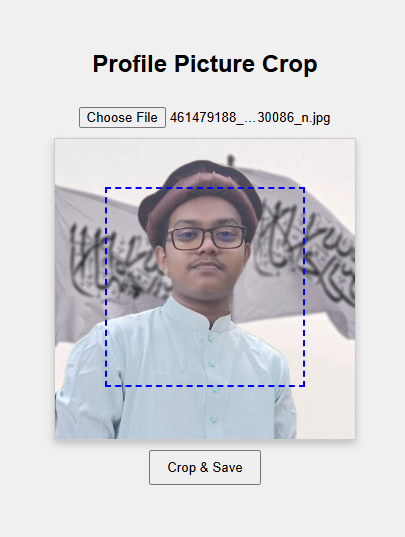
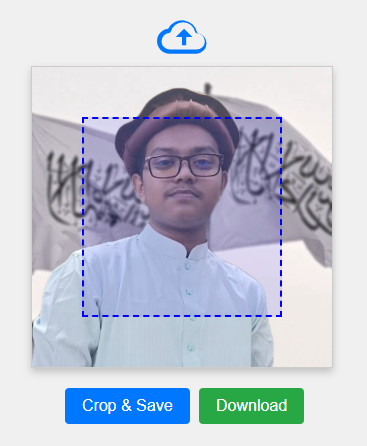
issue solved

diff --git a/script.js b/script.js
@@ -9,9 +9,24 @@ const downloadLink = document.getElementById("download-link");
 let img = new Image();
 let startX,
   startY,
-  offsetX,
-  offsetY,
+  offsetLeft,
+  offsetTop,
   isDragging = false;
+let drawScale = 1;
+let drawOffsetX = 0;
+let drawOffsetY = 0;
+
+// Set a default image if no file is uploaded
+const defaultImageSrc = "default-image.png"; // Change this to your actual default image path
+
+function loadDefaultImage() {
+  img.src = defaultImageSrc;
+  img.onload = function () {
+    drawImage();
+    canvasContainer.style.display = "block";
+    cropBtn.style.display = "none";
+  };
+}
 
 fileInput.addEventListener("change", (e) => {
   const file = e.target.files[0];
@@ -22,72 +37,68 @@ fileInput.addEventListener("change", (e) => {
       img.onload = function () {
         drawImage();
         canvasContainer.style.display = "block";
-        // Center the crop area on the image
-        cropArea.style.left = "50px"; // Center position (300 - 200) / 2
-        cropArea.style.top = "50px"; // Center position (300 - 200) / 2
+        cropBtn.style.display = "inline-block"; // Show crop button
+        cropArea.style.left = `${(canvas.width - cropArea.offsetWidth) / 2}px`;
+        cropArea.style.top = `${(canvas.height - cropArea.offsetHeight) / 2}px`;
+        downloadLink.style.display = "none";
       };
     };
     reader.readAsDataURL(file);
+  } else {
+    loadDefaultImage(); // Load default image if no file is selected
   }
 });
 
 function drawImage() {
-  // Clear canvas
   ctx.clearRect(0, 0, canvas.width, canvas.height);
 
-  // Calculate aspect ratios
-  const canvasAspectRatio = canvas.width / canvas.height;
-  const imageAspectRatio = img.width / img.height;
+  const canvasAspect = canvas.width / canvas.height;
+  const imgAspect = img.width / img.height;
 
-  let sx, sy, sWidth, sHeight;
+  let drawWidth, drawHeight, offsetX, offsetY;
 
-  // Determine cropping dimensions to simulate object-fit: cover
-  if (imageAspectRatio > canvasAspectRatio) {
-    // Image is wider than canvas
-    sHeight = img.height;
-    sWidth = img.height * canvasAspectRatio;
-    sx = (img.width - sWidth) / 2;
-    sy = 0;
+  if (imgAspect > canvasAspect) {
+    drawHeight = canvas.height;
+    drawWidth = img.width * (canvas.height / img.height);
+    offsetX = (canvas.width - drawWidth) / 2;
+    offsetY = 0;
   } else {
-    // Image is taller than canvas
-    sWidth = img.width;
-    sHeight = img.width / canvasAspectRatio;
-    sx = 0;
-    sy = (img.height - sHeight) / 2;
+    drawWidth = canvas.width;
+    drawHeight = img.height * (canvas.width / img.width);
+    offsetX = 0;
+    offsetY = (canvas.height - drawHeight) / 2;
   }
 
-  // Draw the image with calculated cropping
-  ctx.drawImage(
-    img,
-    sx,
-    sy,
-    sWidth,
-    sHeight,
-    0,
-    0,
-    canvas.width,
-    canvas.height
-  );
+  drawScale = drawWidth / img.width;
+  drawOffsetX = offsetX;
+  drawOffsetY = offsetY;
+
+  ctx.drawImage(img, offsetX, offsetY, drawWidth, drawHeight);
 }
 
-// Crop area drag functionality
 cropArea.addEventListener("mousedown", (e) => {
   isDragging = true;
   startX = e.clientX;
   startY = e.clientY;
-  offsetX = cropArea.offsetLeft;
-  offsetY = cropArea.offsetTop;
+  offsetLeft = cropArea.offsetLeft;
+  offsetTop = cropArea.offsetTop;
+  e.preventDefault();
 });
 
 document.addEventListener("mousemove", (e) => {
   if (isDragging) {
     const dx = e.clientX - startX;
     const dy = e.clientY - startY;
-
-    // Constrain crop area within the 300x300px image boundaries
-    const newLeft = Math.min(Math.max(0, offsetX + dx), 300 - 200);
-    const newTop = Math.min(Math.max(0, offsetY + dy), 300 - 200);
-
+    let newLeft = offsetLeft + dx;
+    let newTop = offsetTop + dy;
+    newLeft = Math.min(
+      Math.max(0, newLeft),
+      canvas.width - cropArea.offsetWidth
+    );
+    newTop = Math.min(
+      Math.max(0, newTop),
+      canvas.height - cropArea.offsetHeight
+    );
     cropArea.style.left = `${newLeft}px`;
     cropArea.style.top = `${newTop}px`;
   }
@@ -98,30 +109,45 @@ document.addEventListener("mouseup", () => {
 });
 
 cropBtn.addEventListener("click", () => {
-  const cropX = cropArea.offsetLeft * (img.width / 300);
-  const cropY = cropArea.offsetTop * (img.height / 300);
-  const cropWidth = 200 * (img.width / 300);
-  const cropHeight = 200 * (img.height / 300);
+  const cropLeft =
+    (parseInt(cropArea.style.left, 10) - drawOffsetX) / drawScale;
+  const cropTop = (parseInt(cropArea.style.top, 10) - drawOffsetY) / drawScale;
+  const cropWidth = cropArea.offsetWidth / drawScale;
+  const cropHeight = cropArea.offsetHeight / drawScale;
+
+  const clampedCropLeft = Math.max(0, cropLeft);
+  const clampedCropTop = Math.max(0, cropTop);
+  const clampedCropWidth = Math.min(cropWidth, img.width - clampedCropLeft);
+  const clampedCropHeight = Math.min(cropHeight, img.height - clampedCropTop);
 
   const croppedCanvas = document.createElement("canvas");
-  croppedCanvas.width = 200;
-  croppedCanvas.height = 200;
+  croppedCanvas.width = cropArea.offsetWidth;
+  croppedCanvas.height = cropArea.offsetHeight;
   const croppedCtx = croppedCanvas.getContext("2d");
 
   croppedCtx.drawImage(
     img,
-    cropX,
-    cropY,
-    cropWidth,
-    cropHeight,
+    clampedCropLeft,
+    clampedCropTop,
+    clampedCropWidth,
+    clampedCropHeight,
     0,
     0,
-    200,
-    200
+    croppedCanvas.width,
+    croppedCanvas.height
   );
 
   downloadLink.href = croppedCanvas.toDataURL("image/png");
   downloadLink.download = "cropped-profile-picture.png";
   downloadLink.style.display = "inline-block";
-  downloadLink.innerText = "Download Cropped Image";
+  downloadLink.innerText = "Download";
 });
+
+window.addEventListener("resize", () => {
+  if (img.src) {
+    drawImage();
+  }
+});
+
+// Load default image on page load
+loadDefaultImage();

diff --git a/index.html b/index.html
@@ -1,28 +1,31 @@
 <!DOCTYPE html>
 <html lang="en">
-  <head>
-    <meta charset="UTF-8" />
-    <meta name="viewport" content="width=device-width, initial-scale=1.0" />
-    <link rel="stylesheet" href="style.css">
-    <title>Profile Picture Crop System</title>
-  </head>
-  <body>
-    <div class="container">
-      <h2>Profile Picture Crop</h2>
-      <input type="file" id="file-input" accept="image/*" />
+<head>
+  <meta charset="UTF-8" />
+  <meta name="viewport" content="width=device-width, initial-scale=1.0" />
+  <link rel="stylesheet" href="style.css">
+  <title>Profile Picture Crop System</title>
+</head>
+<body>
+  <div class="container">
+    <label for="file-input" class="upload-btn" id="upload-btn">
+      <!-- SVG Upload Icon -->
+      <svg xmlns="http://www.w3.org/2000/svg" viewBox="0 0 24 24">
+        <path d="M19.35 10.04a7.49 7.49 0 00-14-2A5.998 5.998 0 006 20h13a5 5 0 00.35-9.96zM19 18H6a4 4 0 01-.2-7.98 1 1 0 00.87-.68 6.002 6.002 0 0111.66.24 1 1 0 00.81.62A3 3 0 0119 18zm-7-6v4h2v-4h3l-4-4-4 4h3z"/>
+      </svg>
+    </label>
+    <input type="file" class="file-input" id="file-input" accept="image/*" />
 
-      <div id="canvas-container">
-        <canvas id="canvas" width="300" height="300"></canvas>
-        <div class="crop-area" id="crop-area"></div>
-      </div>
-
-      <div class="controls">
-        <button id="crop-btn">Crop & Save</button>
-        <a id="download-link" style="display: none">Download Cropped Image</a>
-      </div>
+    <div id="canvas-container">
+      <canvas id="canvas" width="300" height="300"></canvas>
+      <div class="crop-area" id="crop-area"></div>
     </div>
-    <script src="script.js"></script>
-  </body>
+
+    <div class="controls">
+      <button id="crop-btn" style="display: none">Crop & Save</button>
+      <a id="download-link">Download</a>
+    </div>
+  </div>
+  <script src="script.js"></script>
+</body>
 </html>
-
-

diff --git a/style.css b/style.css
@@ -12,8 +12,8 @@ body {
   text-align: center;
 }
 
-#file-input {
-  margin: 10px 0;
+.file-input {
+  display: none; /* This hides the file input */
 }
 
 #canvas-container {
@@ -24,11 +24,13 @@ body {
   margin: 0 auto;
   border: 1px solid #ccc;
   box-shadow: 0 4px 8px rgba(0, 0, 0, 0.2);
+  overflow: hidden;
 }
 
 canvas {
   width: 100%;
   height: 100%;
+  display: block;
 }
 
 .crop-area {
@@ -38,6 +40,7 @@ canvas {
   border: 2px dashed #00f;
   cursor: move;
   box-sizing: border-box;
+  background: rgba(0, 0, 255, 0.1);
 }
 
 .controls {
@@ -48,4 +51,40 @@ canvas {
   padding: 8px 16px;
   margin: 0 5px;
   cursor: pointer;
+}
+
+#download-link {
+  display: none;
+  margin-top: 10px;
+  padding: 8px 16px;
+  background-color: #28a745;
+  color: #fff;
+  text-decoration: none;
+  border-radius: 4px;
+  border: 1px solid rgba(0, 96, 206, 0);
+}
+
+#download-link:hover {
+  background-color: #218838;
+}
+
+svg {
+  width: 50px;
+  height: 50px;
+  fill: rgb(0, 119, 255);
+  cursor: pointer;
+}
+
+#crop-btn{
+  padding: 8px 16px;
+  background-color: rgb(0, 119, 255);
+  color: #fff;
+  text-decoration: none;
+  border-radius: 4px;
+  outline: none;
+  border: 1px solid rgba(0, 119, 255, 0);
+  font-size: 16px;
+}
+#crop-btn:hover{
+  background-color: rgb(0, 96, 206);
 }
